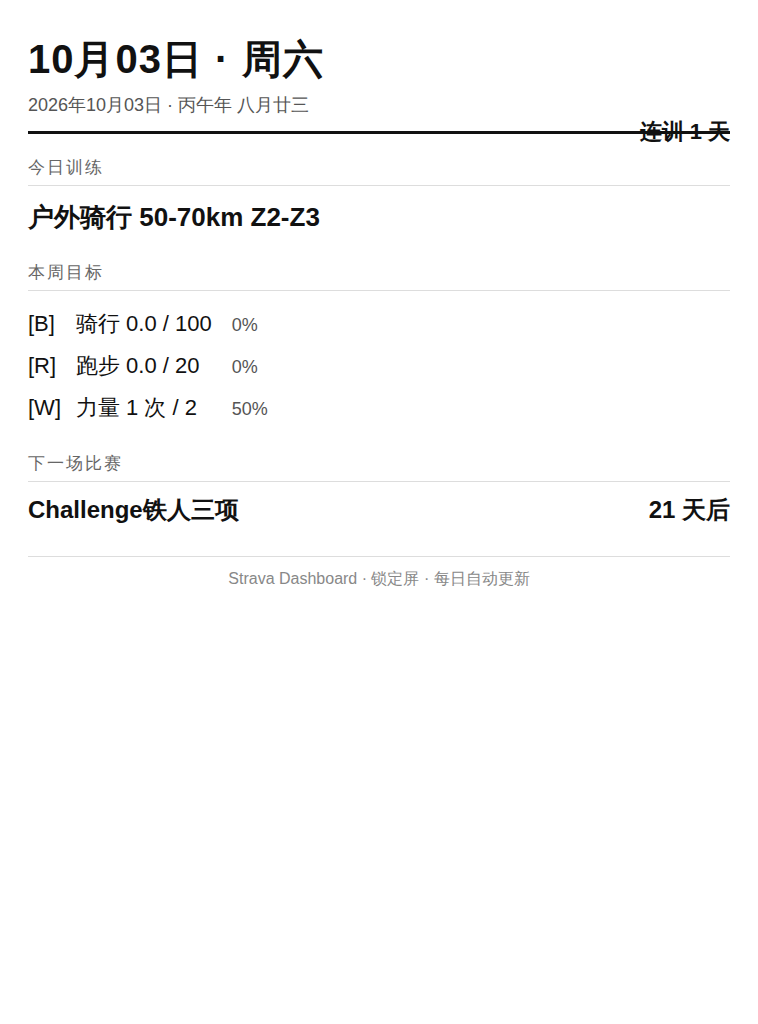
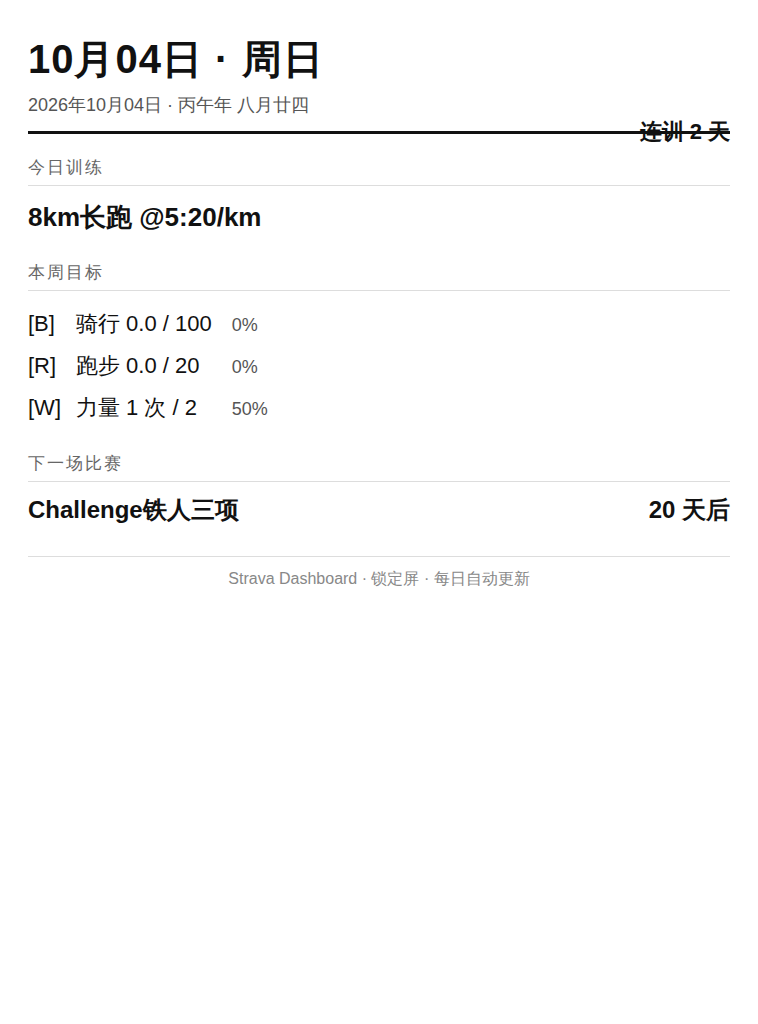
deploy: 450682abdc183f6ae4352051f59a677e9f327fcb

diff --git a/index.html b/index.html
@@ -74,7 +74,7 @@ html, body {
 <table class="header-table">
   <tr>
     <td class="header-left">Eric Lin · 运动</td>
-    <td class="header-right">2026.10.03  · 🔥1d</td>
+    <td class="header-right">2026.10.04  · 🔥2d</td>
   </tr>
 </table>
 
@@ -118,12 +118,12 @@ html, body {
     <tr>
       <td class="icon">[R]</td>
       <td class="label">Run</td>
-      <td class="value">14.9/20</td>
+      <td class="value">24.9/20</td>
       <td style="width:auto;">
         
-        <table class="bar-wrap"><tr><td class="bar-fill"></td><td class="bar-fill"></td><td class="bar-fill"></td><td class="bar-fill"></td><td class="bar-fill"></td><td class="bar-fill"></td><td class="bar-fill"></td><td class="bar-fill"></td><td class="bar-fill"></td><td class="bar-fill"></td><td class="bar-fill"></td><td class="bar-fill"></td><td class="bar-fill"></td><td class="bar-fill"></td><td class="bar-empty"></td><td class="bar-empty"></td><td class="bar-empty"></td><td class="bar-empty"></td><td class="bar-empty"></td><td class="bar-empty"></td></tr></table>
+        <table class="bar-wrap"><tr><td class="bar-fill"></td><td class="bar-fill"></td><td class="bar-fill"></td><td class="bar-fill"></td><td class="bar-fill"></td><td class="bar-fill"></td><td class="bar-fill"></td><td class="bar-fill"></td><td class="bar-fill"></td><td class="bar-fill"></td><td class="bar-fill"></td><td class="bar-fill"></td><td class="bar-fill"></td><td class="bar-fill"></td><td class="bar-fill"></td><td class="bar-fill"></td><td class="bar-fill"></td><td class="bar-fill"></td><td class="bar-fill"></td><td class="bar-fill"></td></tr></table>
       </td>
-      <td class="pct">74%</td>
+      <td class="pct">100%</td>
     </tr>
     
     <tr>
@@ -190,17 +190,17 @@ html, body {
 <line x1="10" y1="46" x2="340" y2="46" stroke="#DDDDDD" stroke-width="1"/>
 <line x1="10" y1="79" x2="340" y2="79" stroke="#DDDDDD" stroke-width="1"/>
 <line x1="10" y1="112" x2="340" y2="112" stroke="#DDDDDD" stroke-width="1"/>
-<text x="8" y="18" fill="#888888" font-size="9" text-anchor="end">15</text>
-<text x="8" y="50" fill="#888888" font-size="9" text-anchor="end">10</text>
-<text x="8" y="83" fill="#888888" font-size="9" text-anchor="end">5</text>
+<text x="8" y="18" fill="#888888" font-size="9" text-anchor="end">25</text>
+<text x="8" y="50" fill="#888888" font-size="9" text-anchor="end">17</text>
+<text x="8" y="83" fill="#888888" font-size="9" text-anchor="end">8</text>
 <text x="8" y="116" fill="#888888" font-size="9" text-anchor="end">0</text>
-<polyline points="10,46 57,112 104,112 151,112 198,112 245,43 292,112 340,14" fill="none" stroke="#444444" stroke-width="3" stroke-linejoin="round"/>
-<circle cx="10" cy="46" r="4" fill="#444444" stroke="#FFFFFF" stroke-width="2"/>
+<polyline points="10,72 57,112 104,112 151,112 198,112 245,71 292,112 340,14" fill="none" stroke="#444444" stroke-width="3" stroke-linejoin="round"/>
+<circle cx="10" cy="72" r="4" fill="#444444" stroke="#FFFFFF" stroke-width="2"/>
 <circle cx="57" cy="112" r="4" fill="#444444" stroke="#FFFFFF" stroke-width="2"/>
 <circle cx="104" cy="112" r="4" fill="#444444" stroke="#FFFFFF" stroke-width="2"/>
 <circle cx="151" cy="112" r="4" fill="#444444" stroke="#FFFFFF" stroke-width="2"/>
 <circle cx="198" cy="112" r="4" fill="#444444" stroke="#FFFFFF" stroke-width="2"/>
-<circle cx="245" cy="43" r="4" fill="#444444" stroke="#FFFFFF" stroke-width="2"/>
+<circle cx="245" cy="71" r="4" fill="#444444" stroke="#FFFFFF" stroke-width="2"/>
 <circle cx="292" cy="112" r="4" fill="#444444" stroke="#FFFFFF" stroke-width="2"/>
 <circle cx="340" cy="14" r="4" fill="#444444" stroke="#FFFFFF" stroke-width="2"/>
 <text x="10" y="128" fill="#888888" font-size="8" text-anchor="middle">33</text>
@@ -225,17 +225,10 @@ html, body {
 <div class="ai-plan">
   <div class="ai-plan-title">AI 训练建议</div>
   
-  <div class="ai-today">今日: 户外骑行 60km Z2-Z3</div>
+  <div class="ai-today">今日: 长跑 8km @5:20/km</div>
   
   
   <table class="ai-weekly">
-    
-    <tr>
-      <td class="day">周六</td>
-      
-      <td>户外骑行 60km Z2-Z3</td>
-      
-    </tr>
     
     <tr>
       <td class="day">周日</td>
@@ -279,6 +272,13 @@ html, body {
       
     </tr>
     
+    <tr>
+      <td class="day">周六</td>
+      
+      <td>户外骑行 60km Z2-Z3</td>
+      
+    </tr>
+    
   </table>
   
   
@@ -293,7 +293,7 @@ html, body {
   <p class="section-title">即将到来</p>
   
   <div class="countdown-box">
-    <div class="countdown-days">21</div>
+    <div class="countdown-days">20</div>
     <div class="countdown-label">距 Challenge铁人三项 (10/24)</div>
   </div>
   

diff --git a/life.html b/life.html
@@ -89,7 +89,7 @@ html, body {
 <table class="header-table">
   <tr>
     <td class="header-left">生活</td>
-    <td class="header-right">2026.10.03</td>
+    <td class="header-right">2026.10.04</td>
   </tr>
 </table>
 
@@ -137,32 +137,25 @@ html, body {
   <p class="section-title">☀ 天气 · 上海</p>
   <table class="weather-table">
     <tr>
-      <td class="weather-icon">~</td>
+      <td class="weather-icon">.</td>
       <td class="weather-temp">21°C</td>
-      <td class="weather-desc">阴</td>
+      <td class="weather-desc">小毛雨</td>
     </tr>
   </table>
   
   <table class="forecast-table">
     
     <tr>
-      <td class="forecast-day">周日</td>
-      <td class="forecast-icon">.</td>
-      <td>小雨</td>
-      <td class="forecast-range">23/20°C</td>
-    </tr>
-    
-    <tr>
       <td class="forecast-day">周一</td>
       <td class="forecast-icon">~</td>
       <td>阴</td>
-      <td class="forecast-range">23/17°C</td>
+      <td class="forecast-range">22/16°C</td>
     </tr>
     
     <tr>
       <td class="forecast-day">周二</td>
-      <td class="forecast-icon">~</td>
-      <td>多云</td>
+      <td class="forecast-icon">*</td>
+      <td>晴</td>
       <td class="forecast-range">22/13°C</td>
     </tr>
     
@@ -175,29 +168,34 @@ html, body {
     
     <tr>
       <td class="forecast-day">周四</td>
-      <td class="forecast-icon">~</td>
-      <td>多云</td>
-      <td class="forecast-range">26/14°C</td>
+      <td class="forecast-icon">*</td>
+      <td>大部晴</td>
+      <td class="forecast-range">24/14°C</td>
     </tr>
     
     <tr>
       <td class="forecast-day">周五</td>
       <td class="forecast-icon">.</td>
-      <td>小毛雨</td>
-      <td class="forecast-range">24/17°C</td>
+      <td>毛雨</td>
+      <td class="forecast-range">25/16°C</td>
     </tr>
     
     <tr>
       <td class="forecast-day">周六</td>
-      <td class="forecast-icon">.</td>
-      <td>小毛雨</td>
-      <td class="forecast-range">26/20°C</td>
+      <td class="forecast-icon">~</td>
+      <td>多云</td>
+      <td class="forecast-range">25/18°C</td>
+    </tr>
+    
+    <tr>
+      <td class="forecast-day">周日</td>
+      <td class="forecast-icon">*</td>
+      <td>大部晴</td>
+      <td class="forecast-range">25/18°C</td>
     </tr>
     
   </table>
   
-  
-  <div class="rain-alert">! 周日 有雨，注意带伞</div>
   
 </div>
 
@@ -207,10 +205,10 @@ html, body {
   <p class="section-title">📅 今日</p>
   <table class="data-table">
     <tr>
-      <td>2026年10月3日 星期五</td>
+      <td>2026年10月4日 星期六</td>
     </tr>
     <tr>
-      <td>农历丙午年 八月廿三</td>
+      <td>农历丙午年 八月廿四</td>
     </tr>
   </table>
 </div>
@@ -294,7 +292,7 @@ html, body {
     
     
     <tr>
-      <td colspan="2" class="todo-summary">🔥 连续运动 1 天</td>
+      <td colspan="2" class="todo-summary">🔥 连续运动 2 天</td>
     </tr>
     
   </table>
@@ -311,7 +309,7 @@ html, body {
       <td class="event-bullet">🎈</td>
       <td class="event-name">老婆生日</td>
       
-      <td class="event-days">362天后</td>
+      <td class="event-days">361天后</td>
       
     </tr>
     
@@ -323,9 +321,9 @@ html, body {
 
 <div class="box">
   <p class="section-title">💬 一言</p>
-  <p class="quote-text">杂耍和唱歌的才需要掌声。</p>
+  <p class="quote-text">已有之事后必再有，已行之事后必再行。</p>
   
-  <p class="quote-from">—— 冰与火之歌</p>
+  <p class="quote-from">—— 圣经·传道书</p>
   
 </div>
 

diff --git a/screensaver.html b/screensaver.html
@@ -3,7 +3,7 @@
 <head>
 <meta charset="utf-8">
 <meta name="viewport" content="width=device-width, initial-scale=1">
-<title>训练屏保 · 10.03</title>
+<title>训练屏保 · 10.04</title>
 <style>
   body {
     margin: 0; padding: 32px 28px;
@@ -46,14 +46,14 @@
 </head>
 <body>
   <div class="header">
-    <div class="date">10月03日 · 周六</div>
-    <div class="sub">2026年10月03日 · 丙午年 八月廿三</div>
-    <div class="streak">连训 1 天</div>
+    <div class="date">10月04日 · 周日</div>
+    <div class="sub">2026年10月04日 · 丙午年 八月廿四</div>
+    <div class="streak">连训 2 天</div>
   </div>
 
   <div class="block">
     <div class="block-title">今日训练</div>
-    <div class="today">户外骑行 50-70km Z2-Z3</div>
+    <div class="today">8km长跑 @5:20/km</div>
   </div>
 
   <div class="block">
@@ -63,7 +63,7 @@
 
   <div class="block">
     <div class="block-title">下一场比赛</div>
-    <div class="race"><span class="race-name">Challenge铁人三项</span><span class="race-days">21 天后</span></div>
+    <div class="race"><span class="race-name">Challenge铁人三项</span><span class="race-days">20 天后</span></div>
   </div>
 
   <div class="footer">Strava Dashboard · 锁定屏 · 每日自动更新</div>

diff --git a/work.html b/work.html
@@ -89,7 +89,7 @@ html, body {
 <table class="header-table">
   <tr>
     <td class="header-left">工作</td>
-    <td class="header-right">2026.10.03</td>
+    <td class="header-right">2026.10.04</td>
   </tr>
 </table>
 
